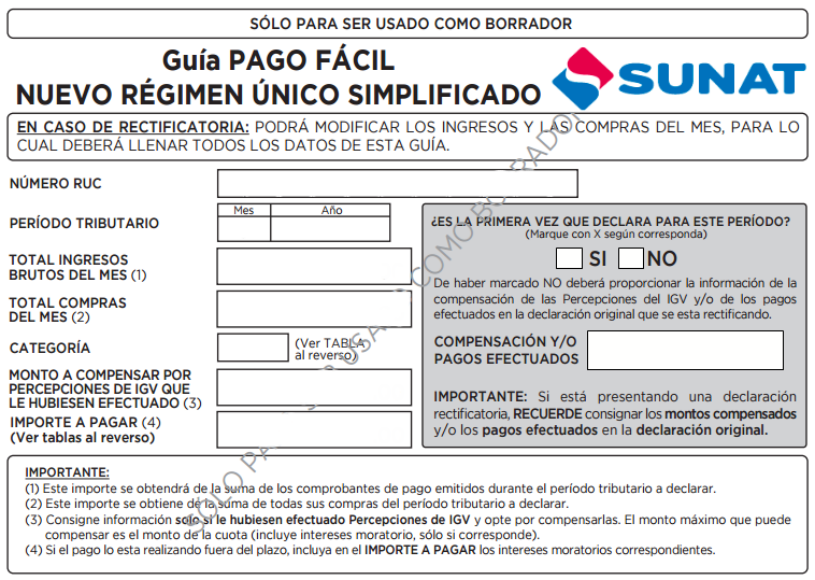
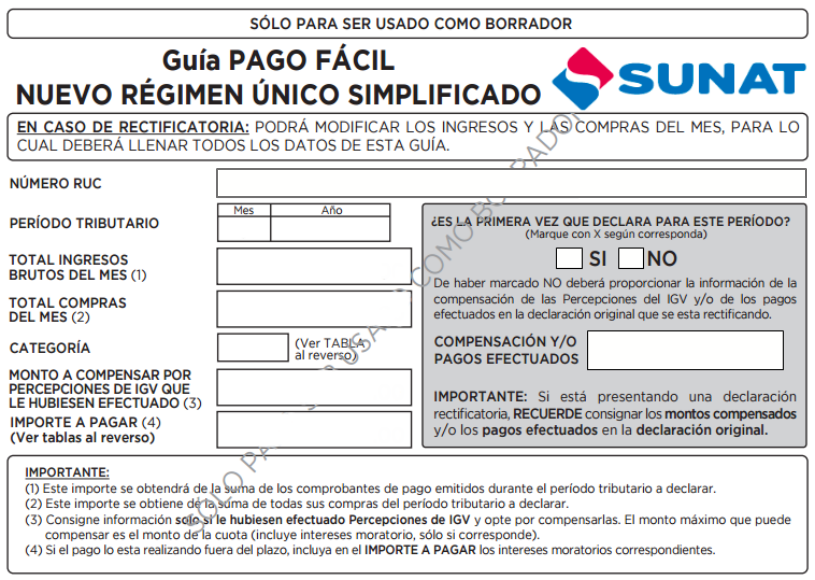
Sacando captcha y ordenando formularios

Changed region(s): [[0.2454, 0.2793, 1.0, 0.3414]]

diff --git a/guias/nuevoreg/from_nuevoreg.php b/guias/nuevoreg/from_nuevoreg.php
@@ -16,7 +16,30 @@
 		      <label ><span class="fa fa-user"></span> N° de RUC:</label>
 		      <input type="text" name="ruc" class="form-control" id="mi-ruc" placeholder="XXXXXXXXXXX" required>
 		    </div>
+			<div class="col-md-6 col-sm-12 col-xs-12 form-group">
+		      <label ><span class="fa fa-user"></span> Nombre del contribuyente:</label>
+		      <input type="text" class="form-control" id="nombre" name="nombre" placeholder="Juan Salas Perez">
+		    </div>
+		    
+		  </div>
 
+		  <div id="row">						    
+		    <div class="col-md-6 col-sm-12 col-xs-12 form-group">
+		      <label ><span class="fa fa-money"></span> Total Ingresos Brutos del Mes (S/.):</label>
+		      <input type="number" step="0.01" name="ingresos" class="form-control"  id="mi-importe" placeholder="0" required>
+		    </div>
+		    <div class="col-md-6 col-sm-12 col-xs-12 form-group">
+		      <label ><span class="fa fa-money"></span> Total Compras del Mes (S/.):</label>
+		      <input type="number" step="0.01" name="compras" class="form-control"  id="mi-importe" placeholder="0" required>
+		    </div>	
+		    
+		  </div>	
+
+		  <div id="row">
+		    <div class="col-md-6 col-sm-12 col-xs-12 form-group">
+		      <label ><span class="fa fa-money"></span> Percepciones (S/.):</label>
+		      <input type="number" step="0.01" name="percepciones" class="form-control"  id="mi-importe" placeholder="0">
+		    </div>				            
 		    <div class="col-md-3 col-sm-12 col-xs-12 form-group">
 		      <label ><span class="fa fa-calendar"></span> Periodo:</label>
 		      <input type="text" name="anio" class="form-control"  id="mi-periodo" placeholder="2017">
@@ -38,37 +61,6 @@
 			<option value="11">Noviembre</option>
 			<option value="12">Diciembre</option>
 		      </select>
-		    </div>
-		  </div>
-
-		  <div id="row">						    
-		    <div class="col-md-6 col-sm-12 col-xs-12 form-group">
-		      <label ><span class="fa fa-money"></span> Total Ingresos Brutos del Mes (S/.):</label>
-		      <input type="number" step="0.01" name="ingresos" class="form-control"  id="mi-importe" placeholder="0" required>
-		    </div>
-		    <div class="col-md-6 col-sm-12 col-xs-12 form-group">
-		      <label ><span class="fa fa-money"></span> Total Compras del Mes (S/.):</label>
-		      <input type="number" step="0.01" name="compras" class="form-control"  id="mi-importe" placeholder="0" required>
-		    </div>	
-		    
-		  </div>	
-
-		  <div id="row">
-		    <div class="col-md-6 col-sm-12 col-xs-12 form-group">
-		      <label ><span class="fa fa-money"></span> Percepciones (S/.):</label>
-		      <input type="number" step="0.01" name="percepciones" class="form-control"  id="mi-importe" placeholder="0">
-		    </div>				            
-		    <div class="col-md-3 col-sm-12 col-xs-12 form-group">
-		      <center>
-				<div class="captcha">
-				  <img id="captcha_img3" src="http://e-consultaruc.sunat.gob.pe/cl-ti-itmrconsruc/captcha?accion=image"></img>
-
-				</div>
-		      </center>
-		    </div>
-		    <div class="col-md-3 col-sm-12 col-xs-12 form-group">
-		      <label ><span class="fa fa-picture-o" style="font-size:15px"></span> Ingresa la imagen:</label>
-		      <input type="text" name="codigo" class="form-control mayus"  id="mi-t-fraccionamiento" placeholder="XXXX" >
 		    </div>				  
 		  </div>
 		  <div class="row">

diff --git a/guias/nuevoreg/nuevoreg.php b/guias/nuevoreg/nuevoreg.php
@@ -5,13 +5,11 @@
   $ingresos = $_POST['ingresos'];
   $compras = $_POST['compras'];
   $percepciones = $_POST['percepciones'];
-  $codigo = $_POST['codigo'];
-  $codigo = strtoupper($codigo);
+  $nombre = $_POST['nombre'];
   $check = $_POST['check'];
   $compensacion = $_POST['compensacion'];
   
-  $url= "http://www.sunat.gob.pe/cl-ti-itmrconsruc/jcrS00Alias?accion=consPorRuc&nroRuc=$ruc&codigo=$codigo&tipdoc=1?";
-
+  
   $soles ='S/.  ';  
   if ((float)$compras > (float)$ingresos){
     $ingreso = $compras;
@@ -90,7 +88,7 @@ $html='
      z-index:1;
      top:197px;
      left:225px;
-     width:300px;
+     width:600px;
      height:12px;
     }
     #capa4{ position:absolute;
@@ -107,7 +105,7 @@ $html='
     }
     #capa6{
       position: absolute;
-      top: 1300px;
+      top: 1200px;
       font-weight: normal;
       font-size: 14px;
       letter-spacing: 2px
@@ -115,7 +113,7 @@ $html='
     body {
       position: relative;
       width: 21cm;  
-      height: 26cm;  
+      height: 18cm;  
       margin: 0 auto; 
       color: #001028;
       background: #FFFFFF;
@@ -137,23 +135,11 @@ window.onload = function() {
 </head>
 <body>';
 
-   $html .=' <div id="content">
-    <div>
-        <iframe id="optomaFeed" src=';
-     $html .= $url;  
-    $html .='  scrolling="no"
-            frameborder="0" height="180" width="100%" style=" z-index: 1;position:absolute; clip: rect(10px,600px,30px,222px);
-            top: 190px;
-left: 143px;"></iframe>
-    </div>
-</div>';
-
-
 $html.='
   <div id="capa2"> <img src="nuevoreg.png" /> </div>
   <div id="capa1">
   &nbsp;';
-  $html .= $ruc;
+  $html .= $ruc.' - '.$nombre;
   $html .=' 
     <hr style="margin-bottom: 15px;">
   &nbsp;';

diff --git a/guias/arrenda/from_arrenda.php b/guias/arrenda/from_arrenda.php
@@ -20,13 +20,14 @@
 		      <label ><span class="fa fa-user"></span> Nombre del contribuyente:</label>
 		      <input type="text" name="nombre" class="form-control" id="nombre" placeholder="Juan Salas Perez">
 		    </div>
-
-		    <div class="col-md-3 col-sm-12 col-xs-12 form-group">
+		    </div>
+		  <div id="row">
+		    <div class="col-md-6 col-sm-12 col-xs-12 form-group">
 		      <label ><span class="fa fa-calendar"></span> Periodo:</label>
 		      <input type="text" name="anio" class="form-control"  id="mi-periodo" placeholder="2017" value="2017">
 		    </div>
 
-		    <div class="col-md-3 col-sm-12 col-xs-12 form-group">
+		    <div class="col-md-6 col-sm-12 col-xs-12 form-group">
 		      <label ><span class="fa fa-calendar-o"></span> Mes:</label>
 		      <select class="form-control" name="mes">
 			<option value="01">Enero</option>
@@ -43,9 +44,7 @@
 			<option value="12">Diciembre</option>
 		      </select>
 		    </div>
-		    <div class="col-md-6 col-sm-12 col-xs-12 form-group">
-		      <hr style="visibility: hidden;"><hr style="visibility: hidden;">
-		    </div>
+		    
 		  </div>
 		  <div id="row">	
 		    <h4><b>Datos Necesarios del Inquilino</b></h4>					    
@@ -94,7 +93,7 @@
 		  
 		  <div id="row">
 		    <h4><b>Monto del Alquiler</b></h4>				         	
-		    <div class="col-md-4 col-sm-12 col-xs-12 form-group">
+		    <div class="col-md-12 col-sm-12 col-xs-12 form-group">
 		      <label ></label>
 		      <label ><span class="fa fa-money"></span> Importe (S/.):</label>
 		      <input type="number" step="0.01" name="monto" class="form-control"  id="mi-t-fraccionamiento" placeholder="0" required>

diff --git a/guias/boleta/from_boleta.php b/guias/boleta/from_boleta.php
@@ -35,6 +35,31 @@
 				            </div>
 
 				          </div>
+				          <div id="row">
+				           <h4><b>Datos Necesarios de Remuneraciones</b></h4>
+				            <div class="col-md-6 col-sm-12 col-xs-12 form-group">
+						      <label ><span class="fa fa-calendar"></span> Año:</label>
+						      <input type="text" name="anio" class="form-control"  id="mi-periodo" placeholder="2017" value="2017">
+						    </div>
+
+						    <div class="col-md-6 col-sm-12 col-xs-12 form-group">
+						      <label ><span class="fa fa-calendar-o"></span> Mes:</label>
+						      <select class="form-control" name="mes">
+							<option value="Enero">Enero</option>
+							<option value="Febrero">Febrero</option>
+							<option value="Marzo">Marzo</option>
+							<option value="Abril">Abril</option>
+							<option value="Mayo">Mayo</option>
+							<option value="Junio">Junio</option>
+							<option value="Julio">Julio</option>
+							<option value="Agosto">Agosto</option>
+							<option value="Septiembre">Septiembre</option>
+							<option value="Octubre">Octubre</option>
+							<option value="Noviembre">Noviembre</option>
+							<option value="Diciembre">Diciembre</option>
+						      </select>
+						    </div>
+				          </div>
 							
 				          <div id="row">
 							<h4><b>Datos Necesarios del Trabajador</b></h4>

diff --git a/guias/pv/from_guiapv.php b/guias/pv/from_guiapv.php
@@ -89,12 +89,12 @@
 		  <div id="row">
 		    
 		    <h4><b>Datos Adicionales Por Tipo de Pago</b></h4>
-		    <div class="col-md-3 col-sm-12 col-xs-12 form-group">
+		    <div class="col-md-6 col-sm-12 col-xs-12 form-group">
 		      <label ><span class="fa fa-external-link"></span> Tributo Asociado:</label>
 		      <input type="text" class="form-control" id="m-t-asociado" placeholder="XXXX" name="trimul">
 		    </div>
 
-		    <div class="col-md-3 col-sm-12 col-xs-12 form-group">
+		    <div class="col-md-6 col-sm-12 col-xs-12 form-group">
 		      <label ><span class="fa fa-vcard-o" style="font-size:15px"></span> N° del Fraccionamiento:</label>
 		      <input type="text" class="form-control"  id="mi-t-fraccionamiento" placeholder="XXXXXXXXXXXXXX" name="fraccionamiento">
 		    </div>

diff --git a/guias/boleta/boleta.php b/guias/boleta/boleta.php
@@ -10,6 +10,9 @@ $direccion = $_POST['direccion'];
 $fecha_e=$_POST['fecha_e'];
 $ciudad=$_POST['ciudad'];
 
+$periodo=$_POST['anio'];
+$mesd=$_POST['mes'];
+
 $nombre = $_POST['nombre'];
 $pension = $_POST['pension'];
 $nacionalidad = $_POST['nacionalidad'];
@@ -320,7 +323,7 @@ if ($uploadOk == 0) {
         <p> <?php echo $ciudad,', ',$dia,' de ',$meses[(int)$mes],' del ',$año; ?></p>
       </div>
       <div id="reu" >
-        <p> <strong>REMUNERACIONES  <?php echo strtoupper($meses[(int)$mes]),' ',$año;?></strong></p>
+        <p> <strong>REMUNERACIONES  <?php echo strtoupper($mesd),' ',$periodo;?></strong></p>
       </div>
 
 </div>

diff --git a/guias/pv/guiapv.php b/guias/pv/guiapv.php
@@ -132,16 +132,7 @@ window.onload = function() {
 
 </head>
 <body>';
-   $html .=' <div id="content">
-    <div>
-        <iframe id="optomaFeed" src=';
-     $html .= $url;  
-    $html .='  scrolling="no"
-            frameborder="0" height="180" width="100%" style=" z-index: 1;position:absolute; clip: rect(10px,600px,30px,222px);
-                top: 369px;
-    left: 430px;"></iframe>
-    </div>
-</div>';
+   
 
 $html.='
   <div id="capa2"> <img src="guiapv.jpg" /> </div>
